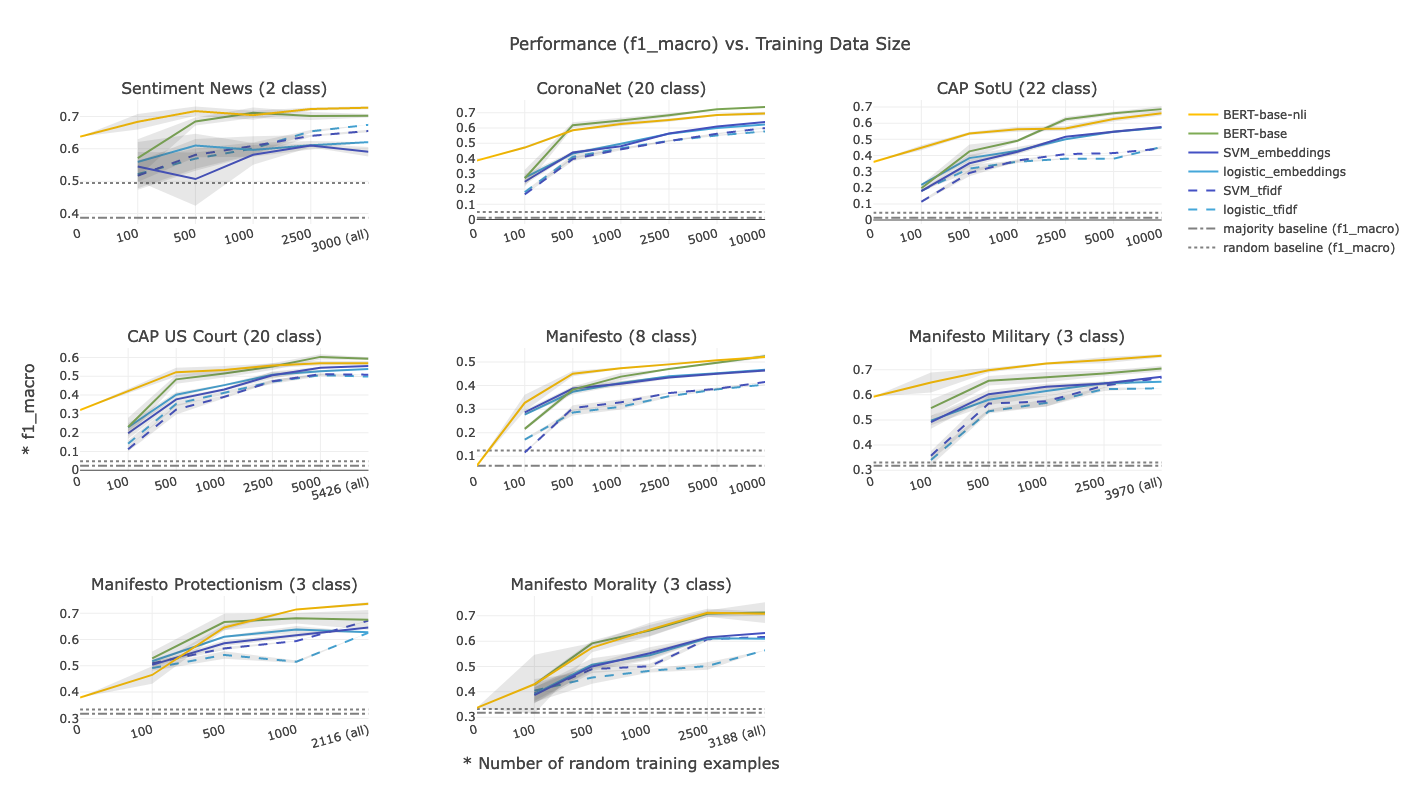
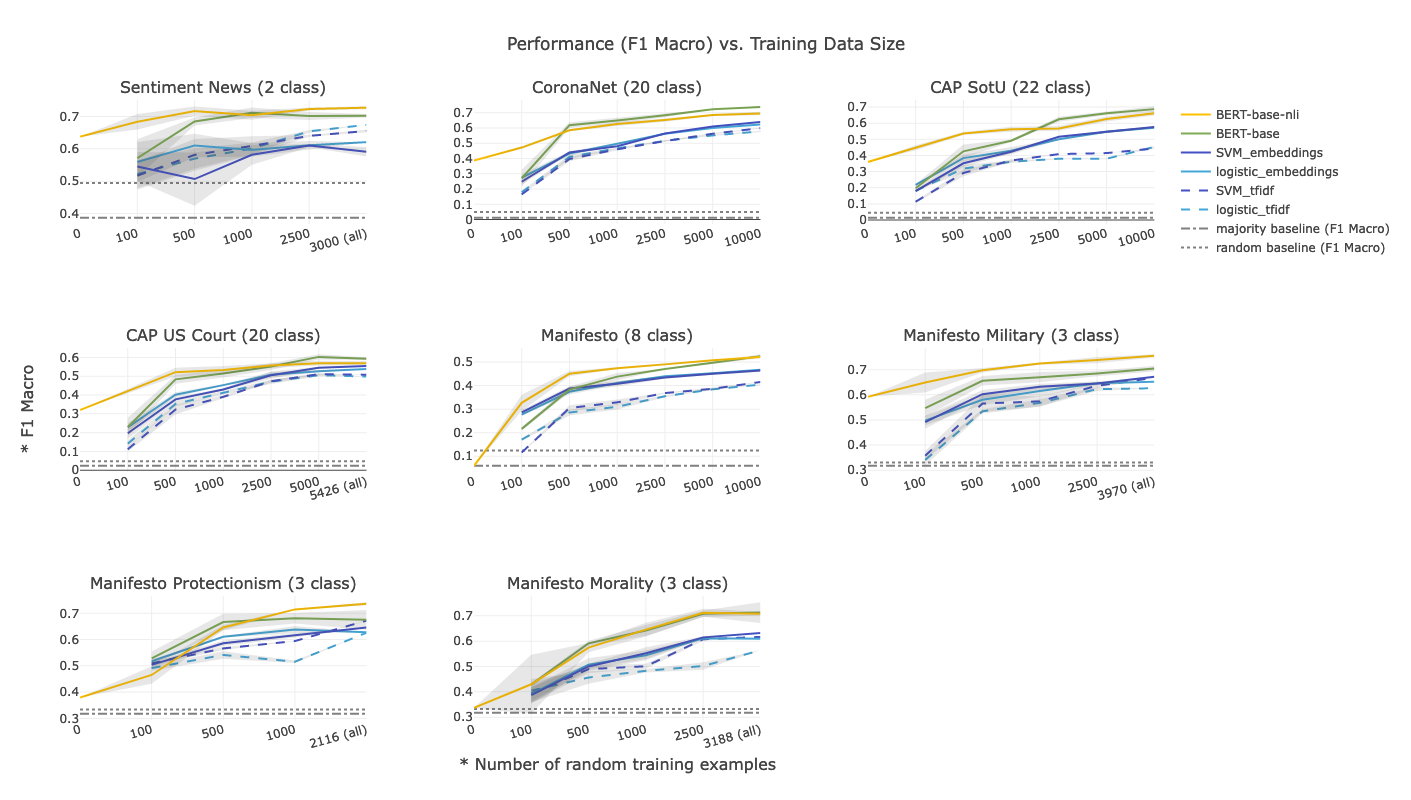
update viz scrip and figures with clearer metric titles

diff --git a/data-viz.py b/data-viz.py
@@ -13,7 +13,7 @@ SEED_GLOBAL = 42
 np.random.seed(SEED_GLOBAL)
 
 ## determine metric to use for figure with performance per dataset disaggregated
-METRIC = "accuracy/f1_micro"  # options: ['f1_macro', 'accuracy/f1_micro', 'accuracy_balanced', 'recall_macro', 'recall_micro', 'precision_macro', 'precision_micro',  'cohen_kappa', 'matthews_corrcoef']
+METRIC = "F1 Macro"  # options: ['F1 Macro', 'Accuracy/F1 Micro', 'Balanced Accuracy', 'recall_macro', 'recall_micro', 'precision_macro', 'precision_micro',  'cohen_kappa', 'matthews_corrcoef']
 
 
 
@@ -140,12 +140,12 @@ def compute_metrics(label_pred, label_gold, label_text_alphabetical=None):
     recall_crossclass_std = np.std([value_class_metrics["recall"] for key_class, value_class_metrics in class_report.items()])
     precision_crossclass_std = np.std([value_class_metrics["precision"] for key_class, value_class_metrics in class_report.items()])
 
-    metrics = {'f1_macro': f1_macro,
+    metrics = {'F1 Macro': f1_macro,
                f'f1_macro_top{top_xth}th': f1_macro_topshare,
                f'f1_macro_rest': f1_macro_bottomrest,
-               'accuracy/f1_micro': f1_micro,
+               'Accuracy/F1 Micro': f1_micro,
                #'accuracy': acc_not_balanced,
-               'accuracy_balanced': acc_balanced,
+               'Balanced Accuracy': acc_balanced,
                f"accuracy_top{top_xth}th": accuracy_topshare,
                "accuracy_rest": accuracy_bottomrest,
                #'accuracy_balanced_manual': accuracy_balanced_manual,  # confirmed that same as sklearn
@@ -168,8 +168,8 @@ def compute_metrics(label_pred, label_gold, label_text_alphabetical=None):
 
     return metrics
 
-metrics_all_name = ['f1_macro', f"f1_macro_top{top_xth}th", "f1_macro_rest",  'accuracy/f1_micro', 'accuracy_balanced',
-                    'recall_macro', 'recall_micro', f'recall_macro_top{top_xth}th', 'recall_macro_rest',   # 'accuracy_balanced_manual',
+metrics_all_name = ['F1 Macro', f"f1_macro_top{top_xth}th", "f1_macro_rest",  'Accuracy/F1 Micro', 'Balanced Accuracy',
+                    'recall_macro', 'recall_micro', f'recall_macro_top{top_xth}th', 'recall_macro_rest',   # 'Balanced Accuracy_manual',
                     'precision_macro', 'precision_micro', f'precision_macro_top{top_xth}th', 'precision_macro_rest',
                     f"accuracy_top{top_xth}th", "accuracy_rest",
                     'cohen_kappa', 'matthews_corrcoef',
@@ -224,28 +224,6 @@ for key_dataset_name, experiment_details_dic_all_methods in experiment_details_d
   #if key_dataset_name == "cap-us-court":  # CAP-us-court reaches max dataset with 320 samples per class
   #  x_axis_values = ["0" if n_per_class == 0 else f"{str(n_total)} (all)" if n_per_class >= 320 else f"{str(n_total)}"  for n_per_class, n_total in zip(n_sample_per_class, n_total_samples)]
 
-  ## old deletable code unnesting specific metrics individually for better viz format
-  """
-  visual_data_dic = {}
-  for key_method in experiment_details_dic_all_methods:
-    f1_macro_mean_lst = []
-    f1_micro_mean_lst = []
-    f1_macro_std_lst = []
-    f1_micro_std_lst = []
-    accuracy_balanced_mean_lst = []
-    accuracy_balanced_std_lst = []
-    for key_step in experiment_details_dic_all_methods[key_method]:
-      f1_macro_mean_lst.append(experiment_details_dic_all_methods[key_method][key_step]["metrics_mean"]["f1_macro_mean"])  # f1_macro_mean, f1_macro_std, f1_micro_mean, f1_micro_std
-      f1_micro_mean_lst.append(experiment_details_dic_all_methods[key_method][key_step]["metrics_mean"]["f1_micro_mean"])  # f1_macro_mean, f1_macro_std, f1_micro_mean, f1_micro_std
-      f1_macro_std_lst.append(experiment_details_dic_all_methods[key_method][key_step]["metrics_mean"]["f1_macro_std"])  # f1_macro_mean, f1_macro_std, f1_micro_mean, f1_micro_std
-      f1_micro_std_lst.append(experiment_details_dic_all_methods[key_method][key_step]["metrics_mean"]["f1_micro_std"])  # f1_macro_mean, f1_macro_std, f1_micro_mean, f1_micro_std
-      # added accuracy balanced based on reviewer feedback
-      accuracy_balanced_mean_lst.append(experiment_details_dic_all_methods[key_method][key_step]["metrics_mean"]["accuracy_balanced_mean"])
-      accuracy_balanced_std_lst.append(experiment_details_dic_all_methods[key_method][key_step]["metrics_mean"]["accuracy_balanced_std"])
-    dic_method = { key_method: {"f1_macro_mean": f1_macro_mean_lst, "f1_micro_mean": f1_micro_mean_lst, "f1_macro_std": f1_macro_std_lst, "f1_micro_std": f1_micro_std_lst,
-                                "accuracy_balanced_mean": accuracy_balanced_mean_lst, "accuracy_balanced_std": accuracy_balanced_std_lst,
-                                "n_classes": n_classes, "x_axis_values": x_axis_values} }  #"n_max_sample": n_sample_per_class, "n_total_samples": n_total_samples,
-    """
   ## unnest metric results in better format for visualisation
   # generalised code for any metric
   visual_data_dic = {}
@@ -317,27 +295,17 @@ for key_dataset_name, value_df_test in df_test_dic.items():
       labels_random = np.random.choice(value_df_test.label_domain_text, len(value_df_test))
       labels_gold = value_df_test.label_domain_text
       metrics_random = compute_metrics(labels_random, labels_gold, label_text_alphabetical=np.sort(value_df_test.label_domain_text.unique()))
-      #f1_macro_random_mean_lst.append(metrics_random["f1_macro"])
-      #f1_micro_random_mean_lst.append(metrics_random["f1_micro"])
-      #accuracy_balanced_random_mean_lst.append(metrics_random["accuracy_balanced"])
-      #
       for metric in metrics_all_name:
           metric_random_dic[metric].append(metrics_random[metric])
     else:
       labels_random = np.random.choice(value_df_test.label_text, len(value_df_test))
       labels_gold = value_df_test.label_text
       metrics_random = compute_metrics(labels_random, labels_gold, label_text_alphabetical=np.sort(value_df_test.label_text.unique()))
-      #f1_macro_random_mean_lst.append(metrics_random["f1_macro"])
-      #f1_micro_random_mean_lst.append(metrics_random["f1_micro"])
-      #accuracy_balanced_random_mean_lst.append(metrics_random["accuracy_balanced"])
       for metric in metrics_all_name:
           metric_random_dic[metric].append(metrics_random[metric])
     ## generalised version for any metric
 
   ## random mean per metric
-  #f1_macro_random_mean = np.mean(f1_macro_random_mean_lst)
-  #f1_micro_random_mean = np.mean(f1_micro_random_mean_lst)
-  #accuracy_balanced_random_mean = np.mean(accuracy_balanced_random_mean_lst)
   metric_random_mean_dic = {}
   for metric in metrics_all_name:
       metric_random_mean_dic.update({f"{metric}_random": np.mean(metric_random_dic[metric])})
@@ -349,26 +317,15 @@ for key_dataset_name, value_df_test in df_test_dic.items():
     labels_majority = [value_df_test.label_domain_text.value_counts().idxmax()] * len(value_df_test)
     labels_gold = value_df_test.label_domain_text
     metrics_majority = compute_metrics(labels_majority, labels_gold, label_text_alphabetical=np.sort(value_df_test.label_domain_text.unique()))
-    #f1_macro_majority = metrics_majority["f1_macro"]
-    #f1_micro_majority = metrics_majority["f1_micro"]
-    #accuracy_balanced_majority = metrics_majority["accuracy_balanced"]
     for metric in metrics_all_name:
         metric_majority_dic.update({f"{metric}_majority": metrics_majority[metric]})
   else:
     labels_majority = [value_df_test.label_text.value_counts().idxmax()] * len(value_df_test)
     labels_gold = value_df_test.label_text
     metrics_majority = compute_metrics(labels_majority, labels_gold, label_text_alphabetical=np.sort(value_df_test.label_text.unique()))
-    #f1_macro_majority = metrics_majority["f1_macro"]
-    #f1_micro_majority = metrics_majority["f1_micro"]
-    #accuracy_balanced_majority = metrics_majority["accuracy_balanced"]
     for metric in metrics_all_name:
         metric_majority_dic.update({f"{metric}_majority": metrics_majority[metric]})
 
-  """metrics_baseline_dic.update({key_dataset_name: {"f1_macro_random": f1_macro_random_mean, "f1_micro_random": f1_micro_random_mean,
-                                                  "f1_macro_majority": f1_macro_majority, "f1_micro_majority": f1_micro_majority,
-                                                  "accuracy_balanced_random": accuracy_balanced_random_mean, "accuracy_balanced_majority": accuracy_balanced_majority,
-                                                  }
-                               })"""
   metrics_baseline_dic.update({key_dataset_name: {**metric_random_mean_dic, **metric_majority_dic}})
 np.random.seed(SEED_GLOBAL)  # rest seed to global seed
 
@@ -679,30 +636,30 @@ for metric in metrics_all_name:
 
 ### create plot
 # for annex - displaying all possible metrics
-metrics_all_name = ['f1_macro', #f"f1_macro_top{top_xth}th", "f1_macro_rest",
-                    'accuracy/f1_micro', 'accuracy_balanced', #f"accuracy_top{top_xth}th", "accuracy_rest",
+metrics_all_name = ['F1 Macro', #f"f1_macro_top{top_xth}th", "f1_macro_rest",
+                    'Accuracy/F1 Micro', 'Balanced Accuracy', #f"accuracy_top{top_xth}th", "accuracy_rest",
                     'recall_macro', 'recall_micro',  #f'recall_macro_top{top_xth}th', 'recall_macro_rest',  #
                     'precision_macro', 'precision_micro',  #f'precision_macro_top{top_xth}th', 'precision_macro_rest',  #
                     'cohen_kappa', 'matthews_corrcoef'
                     ]
 
 # for annex - comparison of metrics by top Xth vs. rest
-metrics_all_name = ['f1_macro', f"f1_macro_top{top_xth}th", "f1_macro_rest",
-                    'accuracy/f1_micro', f"accuracy_top{top_xth}th", "accuracy_rest",  #'accuracy_balanced',
+metrics_all_name = ['F1 Macro', f"f1_macro_top{top_xth}th", "f1_macro_rest",
+                    'Accuracy/F1 Micro', f"accuracy_top{top_xth}th", "accuracy_rest",  #'Balanced Accuracy',
                     #'recall_macro', f'recall_macro_top{top_xth}th', 'recall_macro_rest',  # 'recall_micro',
                     #'precision_macro', f'precision_macro_top{top_xth}th', 'precision_macro_rest',  #'precision_micro',
                     #'cohen_kappa', 'matthews_corrcoef'
                     ]
 # for main text
-metrics_all_name = ['f1_macro', 'accuracy_balanced', 'accuracy/f1_micro']
+metrics_all_name = ['F1 Macro', 'Balanced Accuracy', 'Accuracy/F1 Micro']
 
 
-subplot_titles_compare = metrics_all_name  #["f1_macro", "accuracy/f1_micro", "accuracy_balanced"]
+subplot_titles_compare = metrics_all_name  #["f1_macro", "Accuracy/F1 Micro", "Balanced Accuracy"]
 # determine max number of rows
 i_row = 0
 i_col = 0
 col_max = 3
-for i, metric_i in enumerate(metrics_all_name):   #["f1_macro", "f1_micro", "accuracy_balanced"]
+for i, metric_i in enumerate(metrics_all_name):   #["f1_macro", "f1_micro", "Balanced Accuracy"]
     i_col += 1
     if i % col_max == 0:
         i_row += 1
@@ -719,7 +676,7 @@ marker_symbols = ["circle", "circle", "circle", "circle"]  # "triangle-down", "t
 ## create new sub-plot for each metric
 i_row = 0
 i_col = 0
-for i, metric_i in enumerate(metrics_all_name):   #["f1_macro", "f1_micro", "accuracy_balanced"]
+for i, metric_i in enumerate(metrics_all_name):   #["f1_macro", "f1_micro", "Balanced Accuracy"]
     # determine row and col position for each sub-figure
     i_col += 1
     if i % col_max == 0:
@@ -805,10 +762,10 @@ for i, metric_i in enumerate(metrics_all_name):   #["f1_macro", "f1_micro", "acc
     )
     fig_compare['layout'][f'yaxis{i+1}'].update(
         # range=[0.2, pd.Series(visual_data_dic[algo][f"{metric}_mean"]).iloc[-1] + pd.Series(visual_data_dic[algo][f"{metric}_std"]).iloc[-1] + 0.1]
-        title_text="accuracy/" + metric_i if metric_i == "f1_micro" else metric_i,
+        title_text=metric_i,  #"Accuracy/" + metric_i if metric_i == "F1 Micro" else metric_i,
         title_font_size=16,
         dtick=0.1,
-        range=[0, 0.87] #[0.15, 0.8],
+        range=[0.15, 0.8] #[0.15, 0.8],
         #font=dict(size=14)
     )
 
@@ -832,12 +789,12 @@ fig_compare.show(renderer="browser")
 metrics_all_name = ['accuracy_crossclass_std', 'f1_crossclass_std', 'recall_crossclass_std', 'precision_crossclass_std']
 #metrics_all_name = ['accuracy_std', 'f1_std', 'recall_std', 'precision_std']
 
-subplot_titles_compare = metrics_all_name  #["f1_macro", "accuracy/f1_micro", "accuracy_balanced"]
+subplot_titles_compare = metrics_all_name  #["f1_macro", "Accuracy/F1 Micro", "Balanced Accuracy"]
 # determine max number of rows
 i_row = 0
 i_col = 0
 col_max = 2
-for i, metric_i in enumerate(metrics_all_name):   #["f1_macro", "f1_micro", "accuracy_balanced"]
+for i, metric_i in enumerate(metrics_all_name):   #["f1_macro", "f1_micro", "Balanced Accuracy"]
     i_col += 1
     if i % col_max == 0:
         i_row += 1
@@ -854,7 +811,7 @@ marker_symbols = ["circle", "circle", "circle", "circle"]  # "triangle-down", "t
 ## create new sub-plot for each metric
 i_row = 0
 i_col = 0
-for i, metric_i in enumerate(metrics_all_name):   #["f1_macro", "f1_micro", "accuracy_balanced"]
+for i, metric_i in enumerate(metrics_all_name):   #["f1_macro", "f1_micro", "Balanced Accuracy"]
     # determine row and col position for each sub-figure
     i_col += 1
     if i % col_max == 0:
@@ -877,33 +834,6 @@ for i, metric_i in enumerate(metrics_all_name):   #["f1_macro", "f1_micro", "acc
             ),
             row=i_row, col=i_col
         )
-        # add standard deviation
-        """upper_bound_y = pd.Series(df_metrics_mean_dic[metric_i].loc[algo]) + pd.Series(df_std_mean_dic[metric_i].loc[algo])
-        fig_compare.add_trace(go.Scatter(
-            name=f'Upper Bound {algo}',
-            x=[0, 100, 500, 1000, 2500],  #visual_data_dic[algo]["x_axis_values"] if "nli" in algo else visual_data_dic[algo]["x_axis_values"][1:],
-            y=upper_bound_y,  #upper_bound_y if "nli" in algo else upper_bound_y[1:],  # pd.Series(metric_mean_nli) + pd.Series(metric_std_nli),
-            mode='lines',
-            marker=dict(color="#444"),
-            line=dict(width=0),
-            showlegend=False
-            ),
-            row=i_row, col=i_col
-        )
-        lower_bound_y = pd.Series(df_metrics_mean_dic[metric_i].loc[algo]) - pd.Series(df_std_mean_dic[metric_i].loc[algo])
-        fig_compare.add_trace(go.Scatter(
-            name=f'Lower Bound {algo}',
-            x=[0, 100, 500, 1000, 2500],  #visual_data_dic[algo]["x_axis_values"] if "nli" in algo else visual_data_dic[algo]["x_axis_values"][1:],
-            y=lower_bound_y,  #lower_bound_y if "nli" in algo else lower_bound_y[1:],  # pd.Series(metric_mean_nli) - pd.Series(metric_std_nli),
-            marker=dict(color="#444"),
-            line=dict(width=0),
-            mode='lines',
-            fillcolor='rgba(68, 68, 68, 0.13)',
-            fill='tonexty',
-            showlegend=False
-            ),
-            row=i_row, col=i_col
-        )"""
     #fig_compare.add_vline(x=4, line_dash="longdash", annotation_text="8 datasets", annotation_position="left", row=1, col=i+1)  # ['solid', 'dot', 'dash', 'longdash', 'dashdot', 'longdashdot'] https://plotly.com/python-api-reference/generated/plotly.graph_objects.Figure.html#plotly.graph_objects.Figure.add_vline
     #fig_compare.add_vline(x=4, line_dash="dot", annotation_text="4 datasets", annotation_position="right", row=1, col=i+1)  # annotation=dict(font_size=20, font_family="Times New Roman")  # https://plotly.com/python-api-reference/generated/plotly.graph_objects.Figure.html#plotly.graph_objects.Figure.add_vline
 
@@ -956,12 +886,12 @@ crossclass_std_avg_dict.update({"accuracy_crossclass_std": accuracy_crossclass_s
 metrics_all_name = ['accuracy_crossclass_std', 'f1_crossclass_std']
 #colors_hex = ["#45a7d9", "#4451c4", "#7EAB55", "#FFC000"]  # order: logistic_tfidf, SVM_tfidf, logistic_embeddings, SVM_embeddings, deberta, deberta-nli   # must have same order as visual_data_dic
 
-subplot_titles_compare = metrics_all_name  #["f1_macro", "accuracy/f1_micro", "accuracy_balanced"]
+subplot_titles_compare = metrics_all_name  #["f1_macro", "Accuracy/F1 Micro", "Balanced Accuracy"]
 # determine max number of rows
 i_row = 0
 i_col = 0
 col_max = 2
-for i, metric_i in enumerate(metrics_all_name):   #["f1_macro", "f1_micro", "accuracy_balanced"]
+for i, metric_i in enumerate(metrics_all_name):   #["f1_macro", "f1_micro", "Balanced Accuracy"]
     i_col += 1
     if i % col_max == 0:
         i_row += 1
@@ -977,7 +907,7 @@ fig_compare = make_subplots(rows=i_row, cols=col_max, start_cell="top-left", hor
 ## create new sub-plot for each metric
 i_row = 0
 i_col = 0
-for i, metric_i in enumerate(metrics_all_name):   #["f1_macro", "f1_micro", "accuracy_balanced"]
+for i, metric_i in enumerate(metrics_all_name):   #["f1_macro", "f1_micro", "Balanced Accuracy"]
     # determine row and col position for each sub-figure
     i_col += 1
     if i % col_max == 0:
@@ -1071,23 +1001,6 @@ fig_difference.update_layout(
 )
 fig_difference.show(renderer="browser")
 
-"""
-
-
-
-### deletable script for renaming file names (when "tfidf" to classical ml files)
-"""import os
-DATASET_NAME_LST = ["sentiment-news-econ", "coronanet", "cap-sotu", "cap-us-court", "manifesto-8",
-                    "manifesto-military", "manifesto-protectionism", "manifesto-morality"]
-
-for dataset_name in DATASET_NAME_LST:
-    path = f"./results/{dataset_name}"
-    files = os.listdir(path)
-    for file_name in files:
-        for method in ["SVM", "logistic"]:
-            if (method in file_name) and ("embedding" not in file_name):
-                file_name_new = file_name.replace(method, f"{method}_tfidf")
-                #os.rename(os.path.join(path, file_name), os.path.join(path, file_name_new))
 """
 
 
